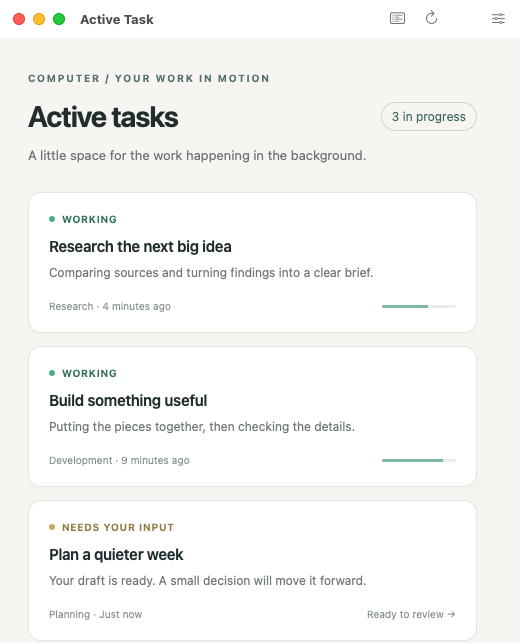
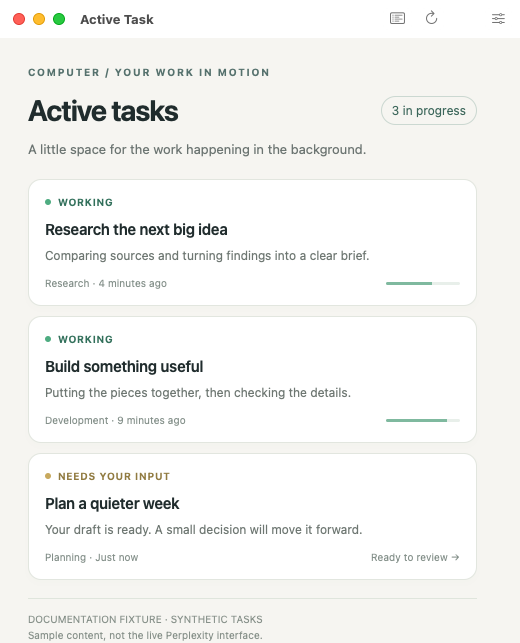
Finalize 1.1.0 screenshots, release licensing and native cost assertions

diff --git a/Sources/App.swift b/Sources/App.swift
@@ -597,6 +597,8 @@ final class AppDelegate: NSObject, NSApplicationDelegate, NSWindowDelegate,
     private func captureCostScene(_ scene: String, path: String, name: String, completion: @escaping () -> Void) {
         webView.evaluateJavaScript("window.showScene('\(scene)')") { _, error in
             if let error = error { fatalError("Scene failed: \(error)") }
+            let selector = scene == "session" ? "[data-at-cost-value]" : "[data-at-cost-org]"
+            let expected = scene == "session" ? "US$13.13" : "(US$600.00)"
             let script = """
             if (!window.__atDocLocation) {
               window.__atDocLocation = { hostname: 'www.perplexity.ai', pathname: '\(path)' };
@@ -605,6 +607,9 @@ final class AppDelegate: NSObject, NSApplicationDelegate, NSWindowDelegate,
               window.__atDocLocation.pathname = '\(path)';
             }
             window.__atDocCost.refresh();
+            if (document.querySelector('\(selector)')?.textContent !== '\(expected)') {
+              throw new Error('Native WebKit cost display did not match the expected fixture amount');
+            }
             """
             self.webView.evaluateJavaScript(script, in: nil, in: .defaultClient) { result in
                 if case .failure(let error) = result { fatalError("Cost fixture injection failed: \(error)") }

diff --git a/docs/VALIDATION.md b/docs/VALIDATION.md
@@ -13,7 +13,7 @@ The [GitHub Actions workflow](https://github.com/paulfxyz/perplexity-active-task
 - **Universal compilation:** Optimized arm64 and x86_64 executables, combined and architecture-checked.
 - **Bundle checks:** Plist validation, generated icon presence, ad-hoc signature verification, and absence of the screenshot fixture from the shipping app.
 - **Launch smoke test:** Starts the native executable and verifies it remains alive for twelve seconds. This checks liveness, not UI correctness or login.
-- **Documentation capture:** A separately compiled native build renders synthetic tasks and captures its own overview, settings panel, session-cost row, and organization-cost suffix.
+- **Documentation capture:** A separately compiled native build renders synthetic tasks and captures its own overview, settings panel, session-cost row, and organization-cost suffix. The actual WebKit-injected values must equal `US$13.13` and `(US$600.00)` before capture succeeds.
 - **Release integrity:** The tag must match the bundle version, and the ZIP must match its SHA-256 checksum before publication.
 
 For the result of a particular version, inspect that tag's workflow run rather than assuming a green badge proves every platform interaction.
